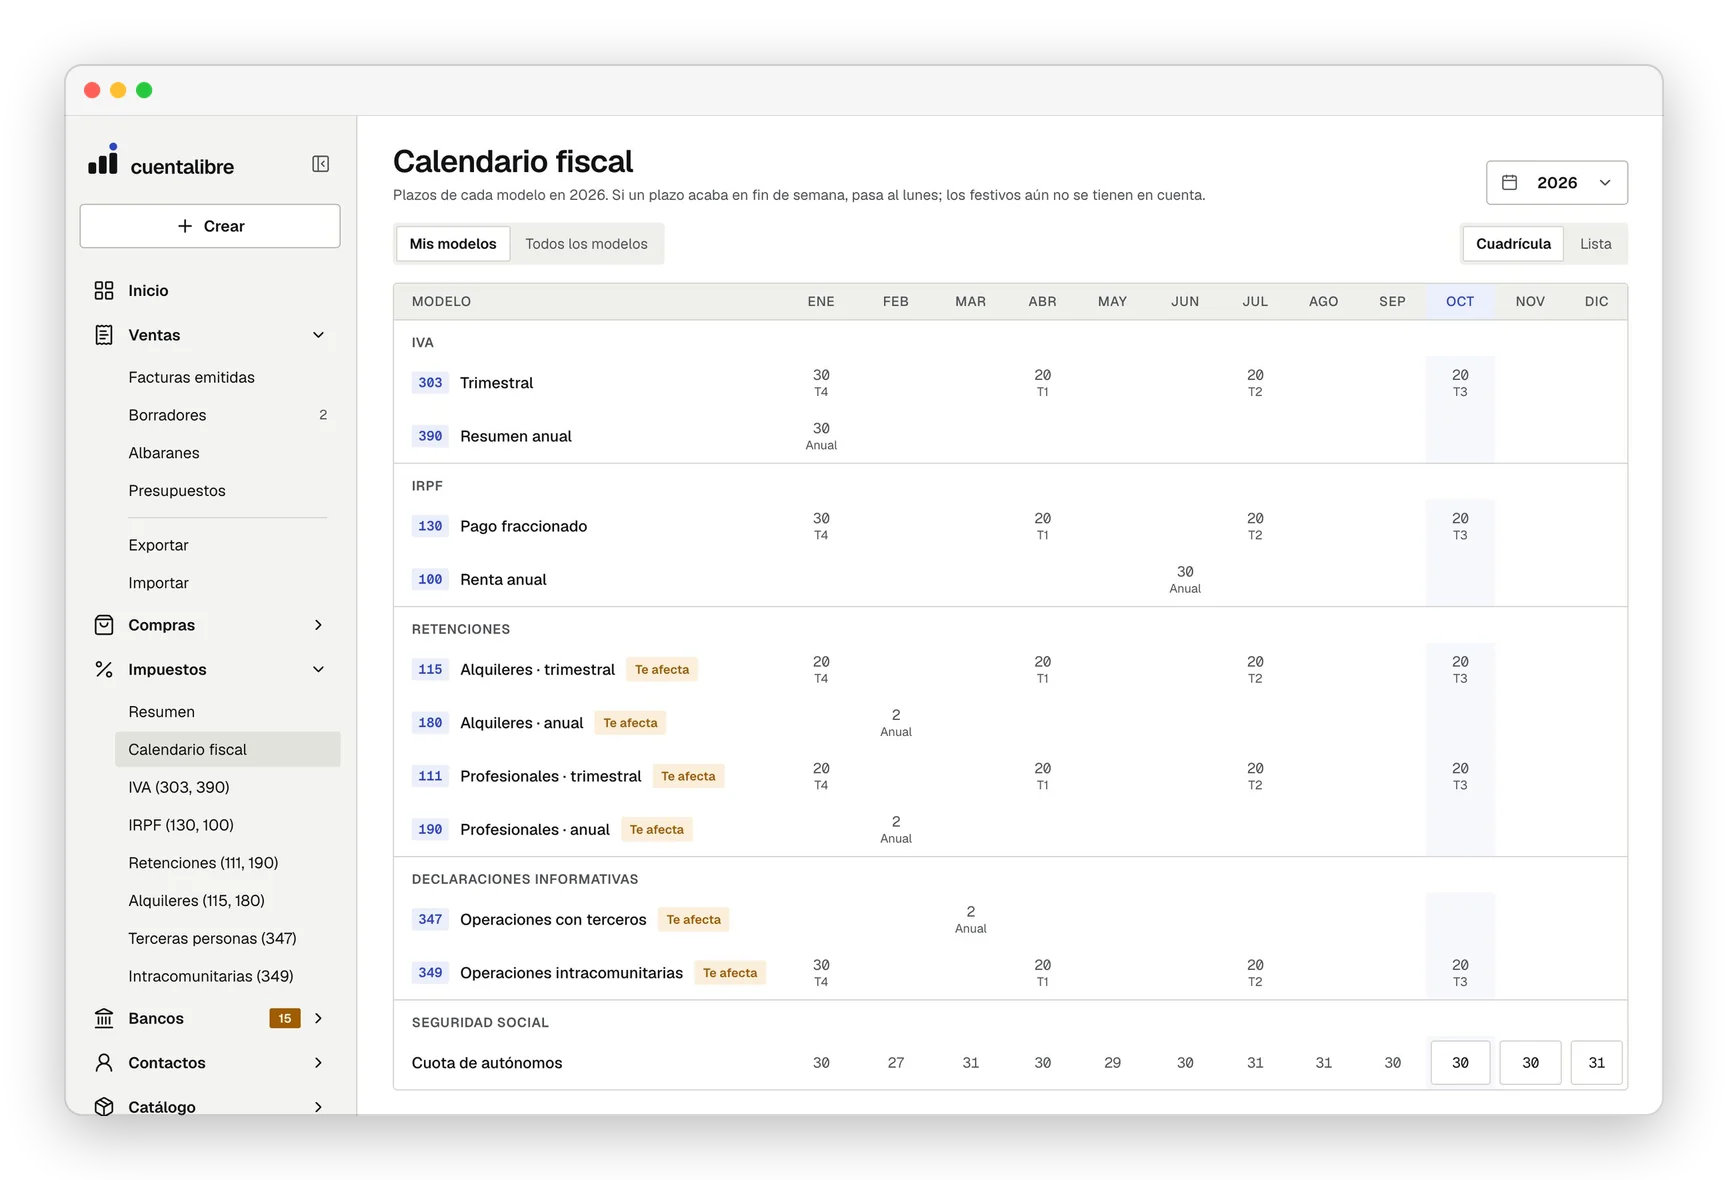
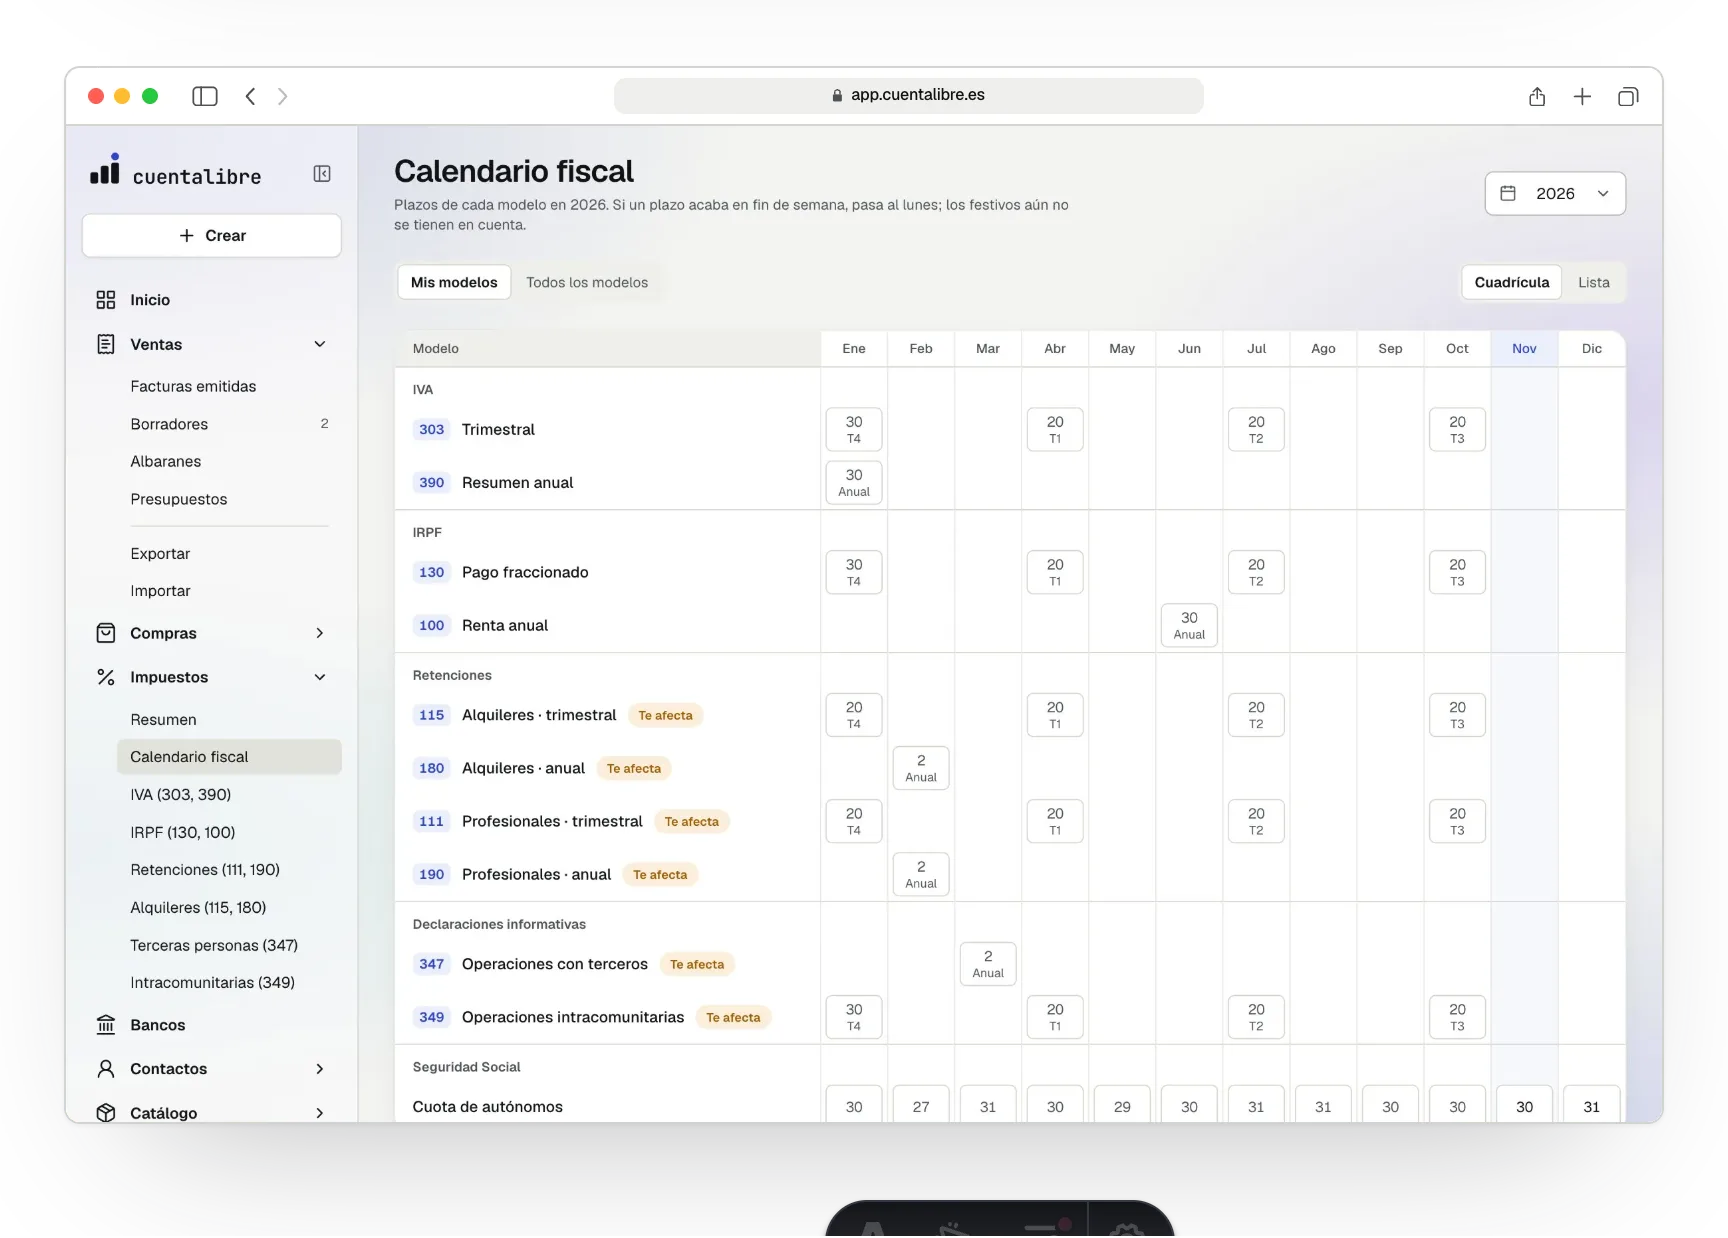
Refresh the README screenshots from the new landing captures
The README gallery now shows the retaken app screens in the same frames as
the landing: a Safari window for desktop and an iPhone 17 for the phone.
The phone expenses and taxes alt texts follow what those captures show.

diff --git a/README.es.md b/README.es.md
@@ -83,9 +83,9 @@
   &nbsp;
   <img src=".github/assets/screens/facturas-movil.webp" alt="Facturas en el móvil" width="22%">
   &nbsp;
-  <img src=".github/assets/screens/gastos-movil.webp" alt="Un gasto nuevo en el móvil" width="22%">
+  <img src=".github/assets/screens/gastos-movil.webp" alt="Gastos en el móvil" width="22%">
   &nbsp;
-  <img src=".github/assets/screens/impuestos-movil.webp" alt="Calendario fiscal en el móvil" width="22%">
+  <img src=".github/assets/screens/impuestos-movil.webp" alt="Impuestos en el móvil" width="22%">
   <br />
   <em>Y todo, también en el móvil.</em>
 </p>

diff --git a/README.md b/README.md
@@ -83,9 +83,9 @@
   &nbsp;
   <img src=".github/assets/screens/facturas-movil.webp" alt="Invoices on a phone" width="22%">
   &nbsp;
-  <img src=".github/assets/screens/gastos-movil.webp" alt="A new expense on a phone" width="22%">
+  <img src=".github/assets/screens/gastos-movil.webp" alt="Expenses on a phone" width="22%">
   &nbsp;
-  <img src=".github/assets/screens/impuestos-movil.webp" alt="Filing calendar on a phone" width="22%">
+  <img src=".github/assets/screens/impuestos-movil.webp" alt="Taxes on a phone" width="22%">
   <br />
   <em>And all of it on your phone.</em>
 </p>
